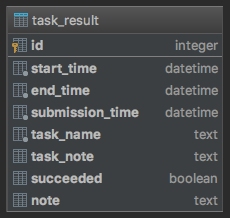
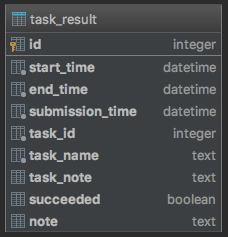
save and extract task ID to/from the database

Changed region(s): [[0.0, 0.0, 0.9825, 0.9908]]

diff --git a/src/main/java/com/sergeykotov/adapter/dao/TaskResultDao.java b/src/main/java/com/sergeykotov/adapter/dao/TaskResultDao.java
@@ -15,10 +15,10 @@ import java.util.List;
 @Repository
 public class TaskResultDao {
     private static final String SAVE_CMD = "insert into task_result " +
-            "(start_time, end_time, submission_time, task_name, task_note, succeeded, note) values " +
-            "(?, ?, ?, ?, ?, ?, ?);";
-    private static final String EXTRACT_CMD = "select t.start_time, t.end_time, t.submission_time, t.task_name, " +
-            "t.task_note, t.succeeded, t.note from task_result t;";
+            "(start_time, end_time, task_id, submission_time, task_name, task_note, succeeded, note) values " +
+            "(?, ?, ?, ?, ?, ?, ?, ?);";
+    private static final String EXTRACT_CMD = "select t.start_time, t.end_time, t.task_id, t.submission_time, " +
+            "t.task_name, t.task_note, t.succeeded, t.note from task_result t;";
     private static final String DELETE_CMD = "delete from task_result where end_time < ?;";
 
     public boolean save(TaskResult taskResult) throws SQLException {
@@ -26,11 +26,12 @@ public class TaskResultDao {
              PreparedStatement preparedStatement = connection.prepareStatement(SAVE_CMD)) {
             preparedStatement.setString(1, taskResult.getStartTime());
             preparedStatement.setString(2, taskResult.getEndTime());
-            preparedStatement.setString(3, taskResult.getTask().getSubmissionTime());
-            preparedStatement.setString(4, taskResult.getTask().getName());
-            preparedStatement.setString(5, taskResult.getTask().getNote());
-            preparedStatement.setBoolean(6, taskResult.isSucceeded());
-            preparedStatement.setString(7, taskResult.getNote());
+            preparedStatement.setLong(3, taskResult.getTask().getId());
+            preparedStatement.setString(4, taskResult.getTask().getSubmissionTime());
+            preparedStatement.setString(5, taskResult.getTask().getName());
+            preparedStatement.setString(6, taskResult.getTask().getNote());
+            preparedStatement.setBoolean(7, taskResult.isSucceeded());
+            preparedStatement.setString(8, taskResult.getNote());
             return preparedStatement.executeUpdate() == 1;
         }
     }
@@ -42,6 +43,7 @@ public class TaskResultDao {
             List<TaskResult> taskResults = new ArrayList<>();
             while (resultSet.next()) {
                 TaskDto taskDto = new TaskDto();
+                taskDto.setId(resultSet.getLong("task_id"));
                 taskDto.setSubmissionTime(resultSet.getString("submission_time"));
                 taskDto.setName(resultSet.getString("task_name"));
                 taskDto.setNote(resultSet.getString("task_note"));
